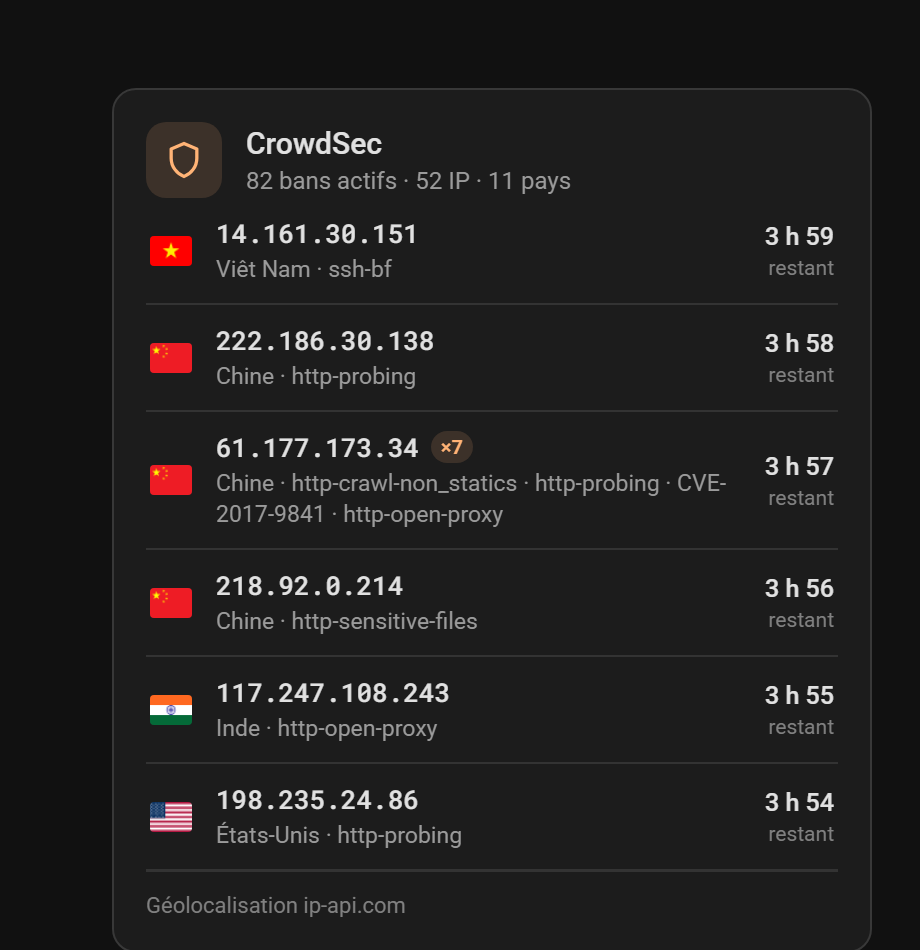
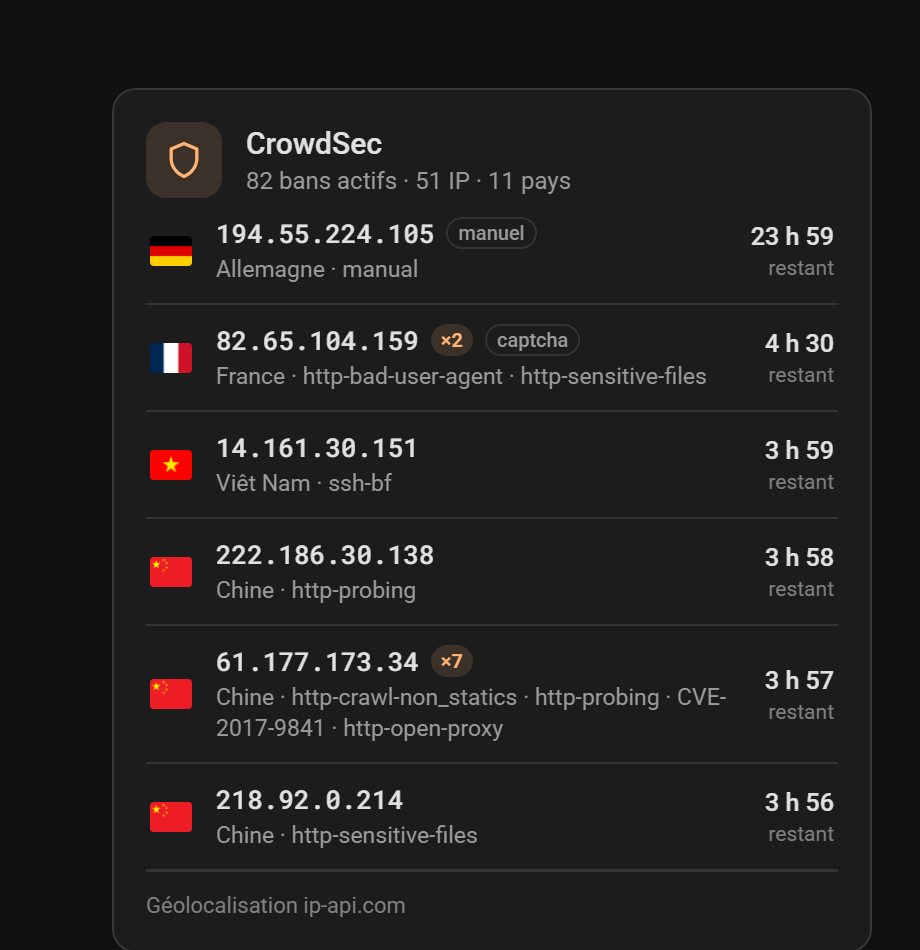
Show action and origin badges on grouped rows
Rows gain a discreet outlined badge only when it is informative: the
decision type when it is not a plain ban (e.g. captcha), and a
manual badge when the IP was banned by hand via cscli. Demo dataset
gains one captcha remediation and one manual 24h ban so the harness
and captures showcase both.

diff --git a/custom_components/crowdsec/www/crowdsec-card.js b/custom_components/crowdsec/www/crowdsec-card.js
@@ -25,6 +25,7 @@ const ZERO = { light: "#ececef", dark: "#2b2b2f" };
 const STRINGS = {
   fr: {
     subtitle: (b, i, p) => `${b} ban${b > 1 ? "s" : ""} actif${b > 1 ? "s" : ""} · ${i} IP · ${p} pays`,
+    manual: "manuel",
     remaining: "restant",
     top: "Top pays",
     empty: "Aucun ban actif",
@@ -36,6 +37,7 @@ const STRINGS = {
   },
   en: {
     subtitle: (b, i, p) => `${b} active ban${b > 1 ? "s" : ""} · ${i} IP${i > 1 ? "s" : ""} · ${p} countr${p > 1 ? "ies" : "y"}`,
+    manual: "manual",
     remaining: "left",
     top: "Top countries",
     empty: "No active ban",
@@ -240,6 +242,8 @@ class CrowdsecCard extends HTMLElement {
           color: var(--primary-text-color); white-space: nowrap; overflow: hidden; text-overflow: ellipsis; }
         .chip { font-size: 10px; font-weight: 600; line-height: 16px; padding: 0 5px; border-radius: 8px;
           background: ${accentBg}; color: ${accent}; flex: 0 0 auto; }
+        .chip-alt { background: transparent; border: 1px solid var(--divider-color);
+          color: var(--secondary-text-color); line-height: 14px; font-weight: 500; }
         .row-sub { font-size: 11.5px; line-height: 1.35; color: var(--secondary-text-color); }
         .row-right { display: flex; flex-direction: column; gap: 2px; align-items: flex-end; flex: 0 0 auto; }
         .left { font-size: 12.5px; font-weight: 500; color: var(--primary-text-color); }
@@ -305,7 +309,7 @@ class CrowdsecCard extends HTMLElement {
     for (const d of shown) {
       let g = byIp.get(d.value);
       if (!g) {
-        g = { value: d.value, country: d.country, scenarios: [], count: 0, remaining: null };
+        g = { value: d.value, country: d.country, scenarios: [], types: [], manual: false, count: 0, remaining: null };
         byIp.set(d.value, g);
         groups.push(g);
       }
@@ -313,6 +317,9 @@ class CrowdsecCard extends HTMLElement {
       if (!g.country && d.country) g.country = d.country;
       const sc = (d.scenario || "").split("/").pop();
       if (sc && !g.scenarios.includes(sc)) g.scenarios.push(sc);
+      // Only non-default actions and manual bans earn a badge.
+      if (d.type && d.type !== "ban" && !g.types.includes(d.type)) g.types.push(d.type);
+      if (d.origin === "cscli") g.manual = true;
       if (d._remaining !== null && (g.remaining === null || d._remaining > g.remaining)) g.remaining = d._remaining;
     }
     const rows = groups.length
@@ -328,6 +335,8 @@ class CrowdsecCard extends HTMLElement {
                 <div class="ip-line">
                   <span class="ip">${esc(g.value)}</span>
                   ${g.count > 1 ? `<span class="chip">×${g.count}</span>` : ""}
+                  ${g.types.map((ty) => `<span class="chip chip-alt">${esc(ty)}</span>`).join("")}
+                  ${g.manual ? `<span class="chip chip-alt">${t.manual}</span>` : ""}
                 </div>
                 <span class="row-sub">${esc(sub)}</span>
               </div>

diff --git a/docs/demo-data.js b/docs/demo-data.js
@@ -65,14 +65,22 @@ export function generateDecisions(seed = 42) {
       // like real CrowdSec data - the card groups them.
       const value = lastIp && rnd() < 0.35 ? lastIp : `${prefix}.${1 + Math.floor(rnd() * 253)}`;
       lastIp = value;
+      // A couple of non-default cases so the card badges show up in captures:
+      // one captcha remediation and one manual cscli ban, with long durations
+      // so they sort near the top of the list.
+      const type = c.cc === "FR" && i === 0 ? "captcha" : "ban";
+      const origin = c.cc === "DE" && i === 0 ? "cscli" : "crowdsec";
+      let duration = `${h ? h + "h" : ""}${m}m${s}s`;
+      if (type === "captcha") duration = "4h30m0s";
+      if (origin === "cscli") duration = "23h59m30s";
       decisions.push({
         id: id++,
-        origin: "crowdsec",
+        origin,
         scope: "Ip",
-        type: "ban",
+        type,
         value,
-        scenario: SCENARIOS[Math.floor(rnd() * SCENARIOS.length)],
-        duration: `${h ? h + "h" : ""}${m}m${s}s`,
+        scenario: origin === "cscli" ? "manual" : SCENARIOS[Math.floor(rnd() * SCENARIOS.length)],
+        duration,
         country: c.cc,
         latitude: Math.round((c.lat + (rnd() - 0.5) * 6) * 100) / 100,
         longitude: Math.round((c.lon + (rnd() - 0.5) * 6) * 100) / 100,
